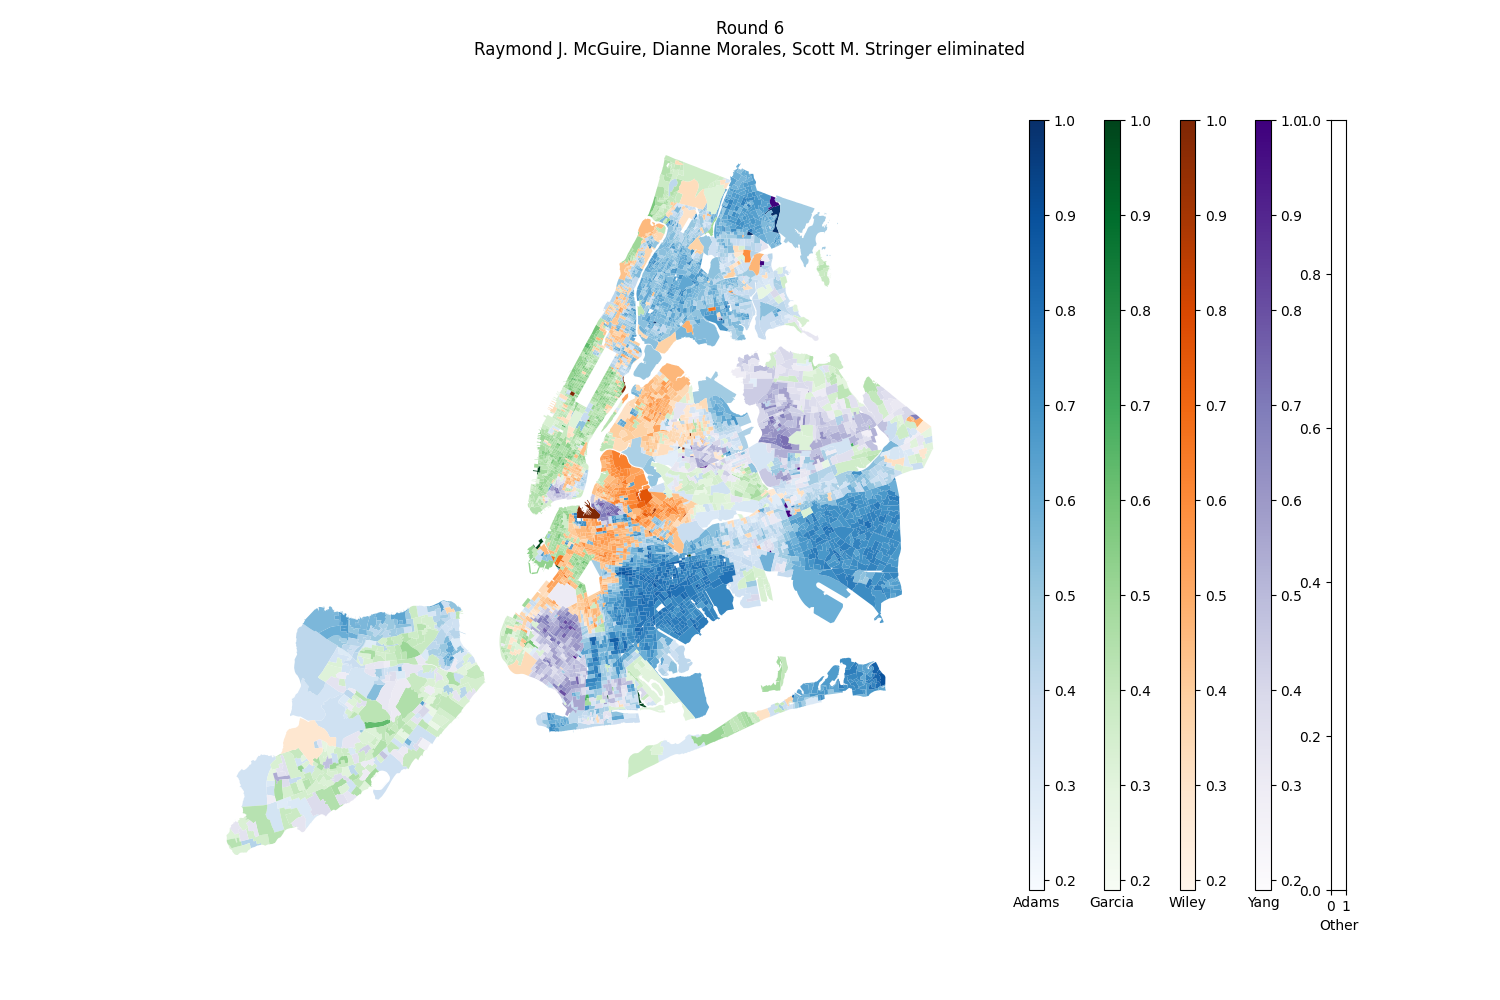
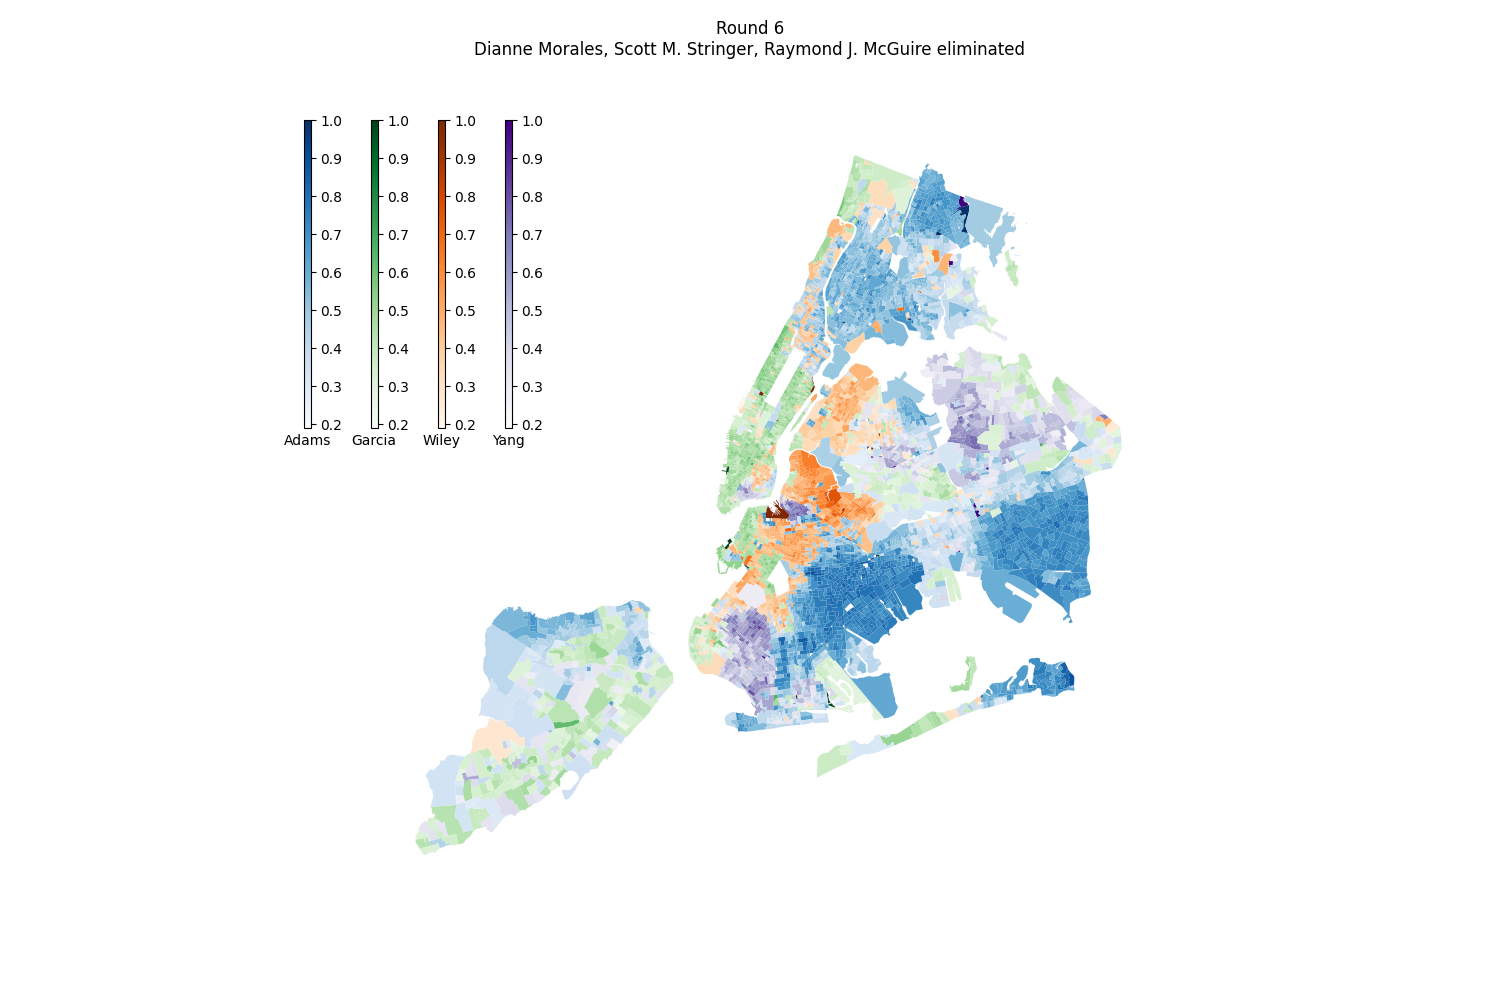
Inset legend

diff --git a/nyc_ed_rcv.py b/nyc_ed_rcv.py
@@ -32,7 +32,7 @@ round_votes_gained={
 
 round_inactive_votes=(671, 405, 773, 2903, 2053, 14465, 30653, 65404)
 
-def ed_to_gis_name(ad):
+def ed_to_gis_id(ad):
     return lambda x: int(ad)*1000 + int(x.split(' ')[1])
 
 previous_eliminiated = {}
@@ -43,7 +43,7 @@ for ad_n in range(23, 88):
     ad = ad[0]
     ad.drop(index=ad.tail(1).index, inplace=True)
     ad.rename(ad.iloc[:, 0], inplace=True)
-    ad.rename(index=ed_to_gis_name(ad_n), inplace=True)
+    ad.rename(index=ed_to_gis_id(ad_n), inplace=True)
     ad.dropna(axis=1, inplace=True)
     ad.drop(columns=ad.columns[[0, 1]], inplace=True)
     all_eds = pd.concat([all_eds, ad])
@@ -71,17 +71,18 @@ for round_number in range(number_rounds):
 
     plt.clf()
     fig, ax = plt.subplots(figsize=(15, 10))
-    divider = make_axes_locatable(ax)
     ax.axis("off")
+    inset_axis = ax.inset_axes([0.1, 0.6, 0.35, 0.40])
+    inset_axis.axis('off')
+    divider = make_axes_locatable(inset_axis)
     fig.suptitle(f'Round {round_number+1}\n{", ".join(eliminated)} eliminated')
 
-    for party, color in color_map.items():
-        cax = divider.append_axes('right', size='2%', pad=0.6)
-        cax.set_xlabel(party)
+    for party, color in reversed(list(color_map.items())):
         if len(round_map[round_map.winning_party == party])==0:
             continue
+        cax = divider.append_axes('left', size='5%', pad=0.6)
+        cax.set_xlabel(party)
         round_map[round_map.winning_party == party].plot(column='margin', cmap=color,
                                             legend=True, ax=ax, cax=cax, vmin=0.19, vmax=1.0, legend_kwds={'orientation': 'vertical'})
 
-    plt.savefig(f'nyc_ed_{round_number}.png')
-
+    plt.savefig(f'nyc_rcv_{round_number+1}.png')
